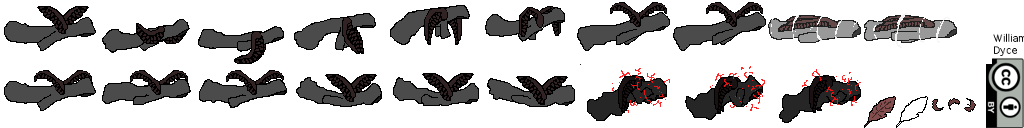
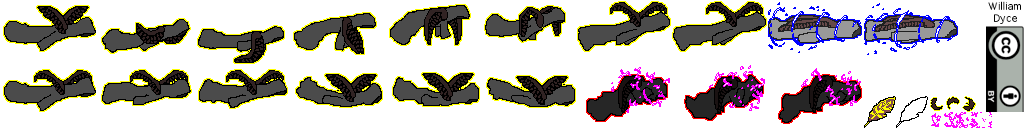
fixed Android.mk, added glow outlines to sprites

diff --git a/jni/src/math/numerise.hpp b/jni/src/math/numerise.hpp
@@ -1,0 +1,71 @@
+/*
+Black Dog: a game for Android and Desktop platforms using SDL and OpenGLES.
+Copyright (C) 2012 William James Dyce
+
+This program is free software: you can redistribute it and/or modify
+it under the terms of the GNU General Public License as published by
+the Free Software Foundation, either version 3 of the License, or
+(at your option) any later version.
+
+This program is distributed in the hope that it will be useful,
+but WITHOUT ANY WARRANTY; without even the implied warranty of
+MERCHANTABILITY or FITNESS FOR A PARTICULAR PURPOSE.  See the
+GNU General Public License for more details.
+
+You should have received a copy of the GNU General Public License
+along with this program.  If not, see <http://www.gnu.org/licenses/>.
+*/
+#ifndef NUMERISE_HPP_INCLUDED
+#define NUMERISE_HPP_INCLUDED
+
+typedef unsigned int str_id;
+
+/// MACRO HASH FUNCTION
+
+#define INIT_HASH 5831         // the magic number, apparently.
+
+#define REHASH(c, hash)                   \
+    (((hash << 5) + hash) + c)
+
+// I'd have liked to define a recursive macro but unfortunately this is
+// impossible without an extension such as "Boost".
+
+/*
+#define NUMERISE_REC(str, i, hash)                                     \
+    (*(str+i)) ? NUMERISE_REC(str, i+1, REHASH(str[i], hash)) : hash
+
+#define NUMERISE(str) (NUMERISE_REC(str, 0, INIT_HASH))
+*/
+
+// not tested
+/*
+#define NUMERISE_REC7(str, hash)                                       \
+  (*(str+7)) ? REHASH(str[7], hash) : hash
+#define NUMERISE_REC6(str, hash)                                       \
+  (*(str+6)) ? NUMERISE_REC7(str, REHASH(str[6], hash)) : hash
+#define NUMERISE_REC5(str, hash)                                       \
+  (*(str+5)) ? NUMERISE_REC6(str, REHASH(str[5], hash)) : hash
+#define NUMERISE_REC4(str, hash)                                       \
+  (*(str+4)) ? NUMERISE_REC5(str, REHASH(str[4], hash)) : hash
+#define NUMERISE_REC3(str, hash)                                       \
+  (*(str+3)) ? NUMERISE_REC4(str, REHASH(str[3], hash)) : hash
+#define NUMERISE_REC2(str, hash)                                       \
+  (*(str+2)) ? NUMERISE_REC3(str, REHASH(str[2], hash)) : hash
+#define NUMERISE_REC1(str, hash)                                       \
+  (*(str+1)) ? NUMERISE_REC2(str, REHASH(str[1], hash)) : hash
+#define NUMERISE_REC0(str, hash)                                       \
+  (*str) ? NUMERISE_REC1(str, REHASH(str[0], hash)) : hash
+
+#define NUMERISE8(str) (NUMERISE_REC0(str, INIT_HASH))
+*/
+
+/// INLINE HASH FUNCTION
+
+// Inlines are the next best thing: hopefully GCC will be clever enough to
+// optimise them.
+
+str_id numerise(const char*);
+
+#include "numerise.inl"
+
+#endif // NUMERISE_HPP_INCLUDED

diff --git a/jni/src/gameplay/things/AngelThing.cpp b/jni/src/gameplay/things/AngelThing.cpp
@@ -237,19 +237,6 @@ void AngelThing::setState(State const& new_state, GameState* context)
     feather_timer.set(FEATHER_INTERVAL);
     graphic.setSprite(wraith_stun, 0.1f);
     AudioManager::getInstance()->play_sound("scream");
-    // some orbs are lost
-    unsigned int n_lost = (orbs.getBalance() >= ORB_COLLISION_PENALTY)
-              ? orbs.tryWithdraw(ORB_COLLISION_PENALTY)
-              : orbs.withdrawAll();
-
-    // create the orbs
-    static Animation* orb_die = GraphicsManager::getInstance()->get_animation("orb_die");
-    for(unsigned int i = 0; i < n_lost; i++)
-    {
-      V2f spawn_pos(position.x - RAND_BETWEEN(24, 48),
-                    position.y + RAND_BETWEEN(-16, 16));
-      context->addThing(new EffectThing(spawn_pos, orb_die, 0.1f));
-    }
   }
 
   // BOOSTING
@@ -350,6 +337,7 @@ int AngelThing::treatEvent(ThingEvent* event, GameState* context)
         setState(STUNNED, context);
         movement.addSpeedX(-1.0f);
         movement.setSpeedY(0.0f);
+        tryDropOrbs(ORB_PENALTY_IMP, context);
       }
       // always kill the other, even if stunned!
       other->die();
@@ -365,6 +353,7 @@ int AngelThing::treatEvent(ThingEvent* event, GameState* context)
         setState(STUNNED, context);
         movement.addSpeedX(-3.0f);
         movement.setSpeedY(0.0f);
+        tryDropOrbs(ORB_PENALTY_MINION, context);
       }
 
       // collide with orb
@@ -475,6 +464,7 @@ int AngelThing::checkCollision(GameState* context)
     movement.setSpeed(V2f(-BOUNCE_BACK, (prev_collision < 0) ? BOUNCE_DOWN : -BOUNCE_UP));
     // paralyse for a short duration
     setState(STUNNED, context);
+    tryDropOrbs(ORB_PENALTY_WALL, context);
     // give feather ONLY if none left
     if(!feathers.anyLeft())
       feathers.deposit();
@@ -482,4 +472,19 @@ int AngelThing::checkCollision(GameState* context)
 
   // nothing to report
   return GameState::CONTINUE;
+}
+
+void AngelThing::tryDropOrbs(unsigned int n_lost, GameState* context)
+{
+  // some orbs are lost
+  n_lost = orbs.tryWithdraw(n_lost);
+
+  // create the orbs
+  static Animation* orb_die = GraphicsManager::getInstance()->get_animation("orb_die");
+  for(unsigned int i = 0; i < n_lost; i++)
+  {
+    V2f spawn_pos(position.x - RAND_BETWEEN(24, 48),
+                  position.y + RAND_BETWEEN(-16, 16));
+    context->addThing(new EffectThing(spawn_pos, orb_die, 0.1f));
+  }
 }

diff --git a/jni/src/gameplay/things/elements/ResourceElement.cpp b/jni/src/gameplay/things/elements/ResourceElement.cpp
@@ -17,7 +17,8 @@ along with this program.  If not, see <http://www.gnu.org/licenses/>.
 */
 #include "ResourceElement.hpp"
 
-ResourceElement::ResourceElement(Thing* owner, int init_max, int init_amount) :
+ResourceElement::ResourceElement(Thing* owner, unsigned int init_max,
+                                              unsigned int init_amount) :
 ThingElement(owner),
 current_amount((init_amount < 0) ? init_max : init_amount),
 max_amount(init_max)
@@ -34,12 +35,12 @@ bool ResourceElement::isFull() const
   return (current_amount == max_amount);
 }
 
-int ResourceElement::getBalance() const
+unsigned int ResourceElement::getBalance() const
 {
     return current_amount;
 }
 
-int ResourceElement::tryWithdraw(int try_amount)
+unsigned int ResourceElement::tryWithdraw(unsigned int try_amount)
 {
     if(current_amount >= try_amount)
     {
@@ -47,17 +48,19 @@ int ResourceElement::tryWithdraw(int try_amount)
       return try_amount;    // transaction successfull
     }
     else
-      return 0;   // transaction failed
+    {
+      return withdrawAll();   // transaction failed
+    }
 }
 
-int ResourceElement::withdrawAll()
+unsigned int ResourceElement::withdrawAll()
 {
     int withdraw_amount = current_amount;
     current_amount = 0;
     return withdraw_amount;
 }
 
-void ResourceElement::deposit(int add_amount)
+void ResourceElement::deposit(unsigned int add_amount)
 {
     current_amount = min(current_amount+add_amount, max_amount);
 }

diff --git a/jni/src/gameplay/things/elements/SymetricalMovementElement.cpp b/jni/src/gameplay/things/elements/SymetricalMovementElement.cpp
@@ -1,0 +1,54 @@
+#include "SymetricalMovementElement.hpp"
+
+using namespace std;
+
+/// CREATION, DESTRUCTION
+
+SymetricalMovementElement::SymetricalMovementElement(Thing* _owner,
+                  float _speed_max, float _friction, float _speed_min) :
+MovementElement(_owner),
+speed_max((_speed_max >= 0.0f) ? _speed_max : FLT_MAX),
+speed_min(_speed_min),
+friction(_friction)
+{
+}
+
+/// MAIN METHODS
+
+int SymetricalMovementElement::update(GameState* context, float delta)
+{
+  // standard operations
+  MovementElement::update(context, delta);
+
+  // slow down
+  if(friction)
+    speed /= pow(friction, delta);
+
+  // cap minimum speed, generate event if stopping
+  if(speed && (abs(speed.x) < speed_min) && (abs(speed.y) < speed_min))
+  {
+    speed.x = speed.y = 0;
+    owner->addEvent(new ThingEvent("stopped_moving"));
+  }
+
+  // all clear!
+  return SceneState::CONTINUE;
+}
+
+/// MODIFICATION
+
+void SymetricalMovementElement::setSpeed(V2f new_speed)
+{
+  // default stuff
+  MovementElement::setSpeed(new_speed);
+
+  // terminal absolute velocity
+  if(speed_scalar > speed_max)
+    speed = (speed/speed_scalar)*speed_max; // normalise and remultiply
+}
+
+void SymetricalMovementElement::setSpeedMax(float _speed_max)
+{
+  speed_max = _speed_max;
+}
+

diff --git a/jni/src/gameplay/things/elements/AsymetricalMovementElement.cpp b/jni/src/gameplay/things/elements/AsymetricalMovementElement.cpp
@@ -1,0 +1,52 @@
+#include "AsymetricalMovementElement.hpp"
+
+using namespace std;
+
+/// CREATION, DESTRUCTION
+
+AsymetricalMovementElement::AsymetricalMovementElement(Thing* _owner,
+                            V2f _speed_max, V2f _friction, V2f _speed_min) :
+MovementElement(_owner),
+speed_max(_speed_max),
+speed_min(_speed_min),
+friction(_friction)
+{
+}
+
+/// MAIN METHODS
+
+int AsymetricalMovementElement::update(GameState* context, float delta)
+{
+  // standard operations
+  MovementElement::update(context, delta);
+
+  // slow down
+  if(friction.x)
+    speed.x /= pow(friction.x, delta);
+  if(friction.y)
+    speed.y /= pow(friction.y, delta);
+
+  // cap minimum speed, generate event if stopping
+  if((abs(speed.x) < speed_min.x) || (abs(speed.y) < speed_min.y))
+  {
+    speed.x = speed.y = 0;
+    owner->addEvent(new ThingEvent("stopped_moving"));
+  }
+
+  // all clear!
+  return SceneState::CONTINUE;
+}
+
+/// MODIFICATION
+
+void AsymetricalMovementElement::setSpeed(V2f new_speed)
+{
+  // default stuff
+  MovementElement::setSpeed(new_speed);
+
+  // terminal absolute velocity
+  if(speed.x > speed_max.x)
+    speed.x = speed_max.x;
+  if(speed.y > speed_max.y)
+    speed.y = speed_max.y;
+}

diff --git a/jni/src/gameplay/things/elements/AsymetricalMovementElement.hpp b/jni/src/gameplay/things/elements/AsymetricalMovementElement.hpp
@@ -1,0 +1,27 @@
+#ifndef ASYMETRICALMOVEMENTELEMENT_HPP_INCLUDED
+#define ASYMETRICALMOVEMENTELEMENT_HPP_INCLUDED
+
+#include "MovementElement.hpp"
+
+class AsymetricalMovementElement : public MovementElement
+{
+  /// ATTRIBUTES
+private:
+  // pseudo-constant set upon creation of object
+  V2f speed_max;
+  V2f speed_min;
+  V2f friction;
+
+  /// METHODS
+public:
+  // creation, destruction
+  AsymetricalMovementElement(Thing* _owner, V2f _speed_max,
+                  V2f _friction = V2f(1.0f, 1.0f),
+                  V2f _speed_min = V2f(DEFAULT_SPEED_MIN, DEFAULT_SPEED_MIN));
+  // main methods
+  virtual int update(GameState* context, float delta);
+  // modification
+  virtual void setSpeed(V2f new_speed);
+};
+
+#endif // ASYMETRICALMOVEMENTELEMENT_HPP_INCLUDED

diff --git a/jni/src/gameplay/things/elements/SymetricalMovementElement.hpp b/jni/src/gameplay/things/elements/SymetricalMovementElement.hpp
@@ -1,0 +1,27 @@
+#ifndef SYMETRICALMOVEMENTELEMENT_HPP_INCLUDED
+#define SYMETRICALMOVEMENTELEMENT_HPP_INCLUDED
+
+#include "MovementElement.hpp"
+
+class SymetricalMovementElement : public MovementElement
+{
+  /// ATTRIBUTES
+private:
+  // pseudo-constant set upon creation of object
+  float speed_max;
+  float speed_min;
+  float friction;
+
+  /// METHODS
+public:
+  // creation, destruction
+  SymetricalMovementElement(Thing* _owner, float speed_max, float friction = 1,
+                            float speed_min = DEFAULT_SPEED_MIN);
+  // main methods
+  virtual int update(GameState* context, float delta);
+  // modification
+  virtual void setSpeed(V2f new_speed);
+  void setSpeedMax(float _max_speed);
+};
+
+#endif // SYMETRICALMOVEMENTELEMENT_HPP_INCLUDED

diff --git a/jni/src/gameplay/things/AngelThing.hpp b/jni/src/gameplay/things/AngelThing.hpp
@@ -63,7 +63,9 @@ public:
   static const int MAX_ORBS = 5;
   static const int FEATHER_INTERVAL = 58;
   static const int ORB_USE_INTERVAL = 38;
-  static const int ORB_COLLISION_PENALTY = 2;
+  static const int ORB_PENALTY_WALL = 2;
+  static const int ORB_PENALTY_MINION = 3;
+  static const int ORB_PENALTY_IMP = 1;
   static const int STUN_DURATION = 20;
   static const int SPRITE_W = 112;
   static const int SPRITE_H = 54;
@@ -103,6 +105,7 @@ private:
   int treatEvent(ThingEvent* event, GameState* context);
   int treatInput(GameState* context);
   int checkCollision(GameState* context);
+  void tryDropOrbs(unsigned int n_lost, GameState* context);
 };
 
 #endif // ANGELTHING_HPP_INCLUDED

diff --git a/jni/src/gameplay/TunnelFG.cpp b/jni/src/gameplay/TunnelFG.cpp
@@ -60,12 +60,12 @@ void TunnelFG::draw()
   // draw the roof of the cavern
   mesh_above.draw(offset_x, COLOUR_FILL);
   draw::height_line(above, N_PTS, SEGMENT_L, V2f(offset_x, 0.0f),
-                    head_i, COLOUR_LINE);
+                    head_i, COLOUR_LINE, 1.7f);
 
   // draw the floor
   mesh_below.draw(offset_x, COLOUR_FILL);
   draw::height_line(below, N_PTS, SEGMENT_L, V2f(offset_x, 0.0f),
-                    head_i, COLOUR_LINE);
+                    head_i, COLOUR_LINE, 1.7f);
 }
 
 void TunnelFG::new_height(unsigned int i)
